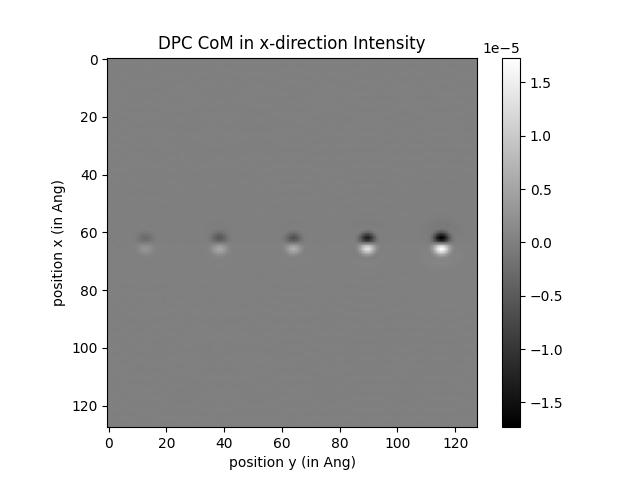
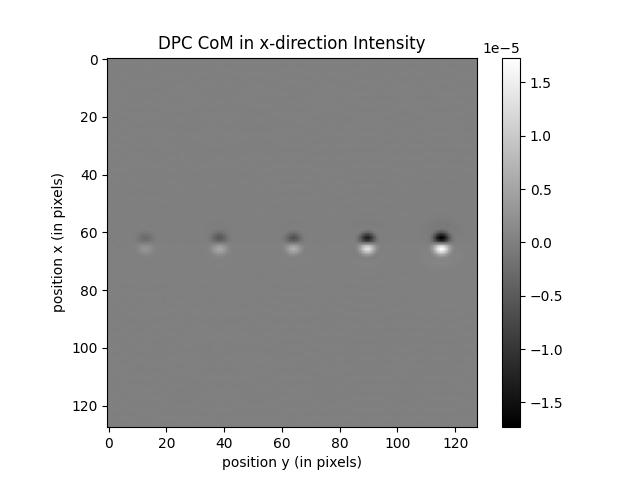
fixed axis label

Changed region(s): [[0.3438, 0.9375, 0.5625, 1.0], [0.0625, 0.375, 0.125, 0.6562]]

diff --git a/visualize.py b/visualize.py
@@ -47,13 +47,13 @@ def linescan(x):
 
 
 
-# psi = importdata('probe_re.txt') + 1j*importdata('probe_im.txt')
-# psi = importdata('psi_re.txt') + 1j*importdata('psi_im.txt')
-I = importdata('I.txt')
-plt.imshow(I,'gray')
-plt.colorbar()
-# plt.savefig('DPC CoM.jpg')
-plt.show()
+# # psi = importdata('probe_re.txt') + 1j*importdata('probe_im.txt')
+# # psi = importdata('psi_re.txt') + 1j*importdata('psi_im.txt')
+# I = importdata('I.txt')
+# plt.imshow(I,'gray')
+# plt.colorbar()
+
+# plt.show()
 
 
 # # ________________DPC CoM________________-
@@ -61,8 +61,8 @@ plt.show()
 # plt.imshow(I,'gray')
 # plt.colorbar()
 # plt.title('DPC CoM in x-direction Intensity')
-# plt.ylabel('position x (in Ang)')
-# plt.xlabel('position y (in Ang)')
+# plt.ylabel('position x (in pixels)')
+# plt.xlabel('position y (in pixels)')
 # # plt.savefig('DPC CoM.jpg')
 # plt.show()
 
